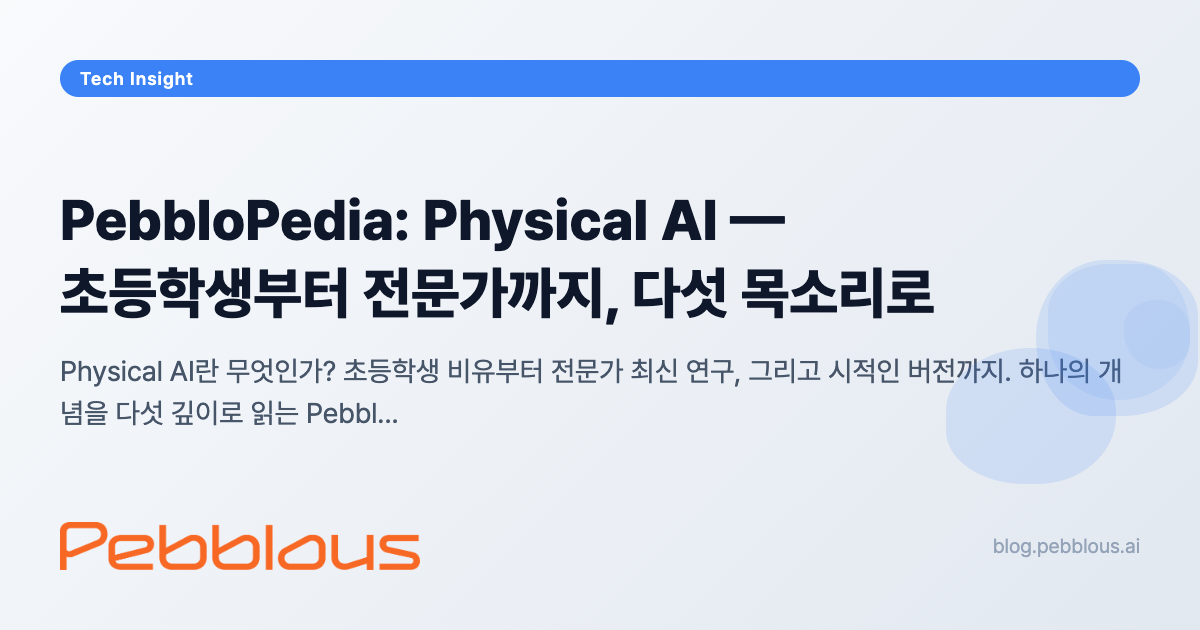
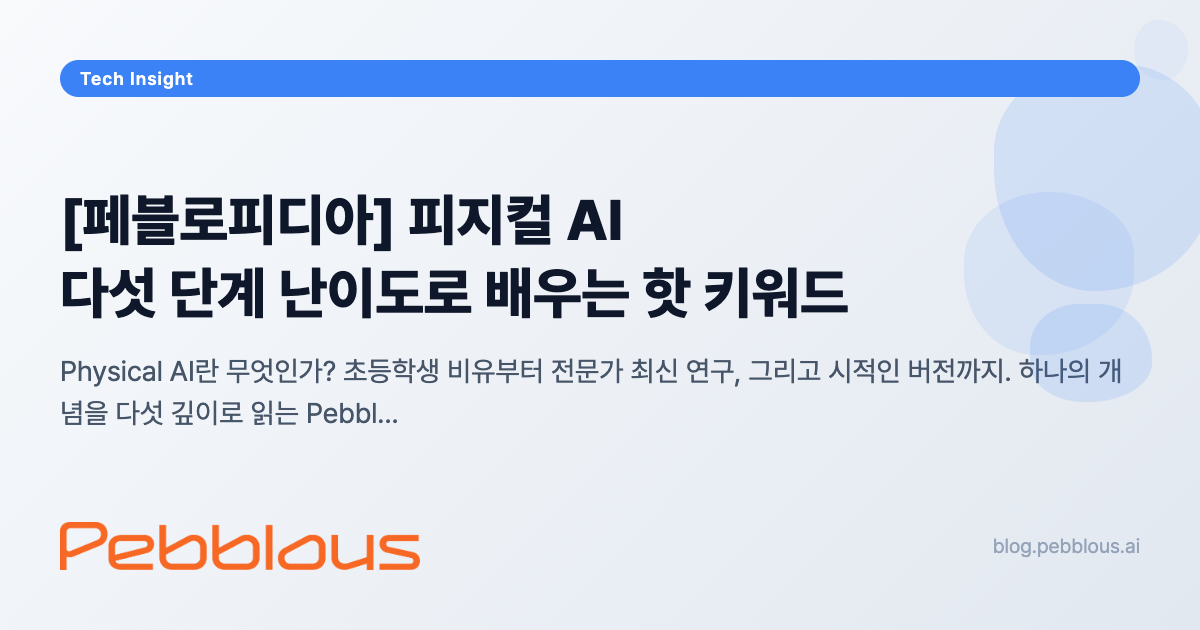
fix: PebbloPedia 제목 변경 — [페블로피디아] 피지컬 AI + 부제목 "다섯 단계 난이도로 배우는 핫 키워드"
- title, og:title, twitter:title, config, articles.json 5곳 통일
- OG 이미지 재생성 + og-image-title 수동 줄바꿈

diff --git a/pebblopedia/physical-ai/ko/index.html b/pebblopedia/physical-ai/ko/index.html
@@ -9,7 +9,7 @@
     <meta name="copyright" content="© 2026 Pebblous. All rights reserved.">
     <meta name="robots" content="index, follow">
 
-    <title>PebbloPedia: Physical AI — 초등학생부터 전문가까지, 다섯 목소리로 | 페블러스</title>
+    <title>[페블로피디아] 피지컬 AI — 어린이부터 전문가까지, 다섯 단계 난이도로 배우는 핫 키워드 | 페블러스</title>
     <meta name="description" content="Physical AI란 무엇인가? 초등학생 비유부터 중고등학생 원리 탐구, 전공자 기술 스택, 전문가 최신 연구, 그리고 시적인 버전까지. 하나의 개념을 다섯 깊이로 읽는 PebbloPedia 시리즈.">
     <meta name="keywords" content="Physical AI, PebbloPedia, 피지컬 AI, 로보틱스, Embodied AI, NVIDIA Cosmos, Tesla Optimus, Figure AI, 강화학습, World Models, 자율주행, 페블러스">
 
@@ -19,24 +19,25 @@
     <link rel="alternate" hreflang="x-default" href="https://blog.pebblous.ai/pebblopedia/physical-ai/ko/">
 
     <!-- Open Graph -->
-    <meta property="og:title" content="PebbloPedia: Physical AI — 초등학생부터 전문가까지, 다섯 목소리로">
+    <meta name="og-image-title" content="[페블로피디아] 피지컬 AI&#10;다섯 단계 난이도로 배우는 핫 키워드">
+    <meta property="og:title" content="[페블로피디아] 피지컬 AI — 어린이부터 전문가까지, 다섯 단계 난이도로 배우는 핫 키워드">
     <meta property="og:description" content="Physical AI란 무엇인가? 초등학생 비유부터 전문가 최신 연구, 그리고 시적인 버전까지. 하나의 개념을 다섯 깊이로 읽는 PebbloPedia.">
     <meta property="og:type" content="article">
     <meta property="og:url" content="https://blog.pebblous.ai/pebblopedia/physical-ai/ko/">
     <meta property="og:image" content="https://blog.pebblous.ai/pebblopedia/physical-ai/ko/image/index.png">
     <meta property="og:image:width" content="1200">
     <meta property="og:image:height" content="630">
-    <meta property="og:image:alt" content="PebbloPedia: Physical AI — 다섯 목소리로 읽는 피지컬 AI">
+    <meta property="og:image:alt" content="[페블로피디아] 피지컬 AI — 어린이부터 전문가까지, 다섯 단계 난이도로 배우는 핫 키워드">
     <meta property="og:site_name" content="Pebblous Blog">
     <meta property="og:locale" content="ko_KR">
     <meta property="article:published_time" content="2026-03-24">
 
     <!-- Twitter Card -->
     <meta name="twitter:card" content="summary_large_image">
-    <meta name="twitter:title" content="PebbloPedia: Physical AI — 다섯 목소리로">
+    <meta name="twitter:title" content="[페블로피디아] 피지컬 AI — 어린이부터 전문가까지, 다섯 단계 난이도로 배우는 핫 키워드">
     <meta name="twitter:description" content="초등학생부터 전문가까지, 그리고 시인까지. Physical AI를 다섯 깊이로 읽는다.">
     <meta name="twitter:image" content="https://blog.pebblous.ai/pebblopedia/physical-ai/ko/image/index.png">
-    <meta name="twitter:image:alt" content="PebbloPedia: Physical AI — 다섯 목소리로 읽는 피지컬 AI">
+    <meta name="twitter:image:alt" content="[페블로피디아] 피지컬 AI — 어린이부터 전문가까지, 다섯 단계 난이도로 배우는 핫 키워드">
     <meta name="twitter:site" content="@pebblous">
     <meta name="twitter:creator" content="@pebblous">
 
@@ -641,9 +642,9 @@
     <script src="/scripts/common-utils.js?v=20260324"></script>
     <script>
         PebblousPage.init({
-            mainTitle: "PebbloPedia: Physical AI",
-            subtitle: "초등학생부터 전문가까지, 시인까지 — 하나의 개념을 다섯 목소리로",
-            pageTitle: "PebbloPedia: Physical AI — 다섯 목소리로 | 페블러스",
+            mainTitle: "[페블로피디아] 피지컬 AI",
+            subtitle: "어린이부터 전문가까지, 다섯 단계 난이도로 배우는 핫 키워드",
+            pageTitle: "[페블로피디아] 피지컬 AI — 어린이부터 전문가까지, 다섯 단계 난이도로 배우는 핫 키워드 | 페블러스",
             category: "story",
             publishDate: "2026-03-24",
             publisher: "페블러스 데이터커뮤니케이션팀",
